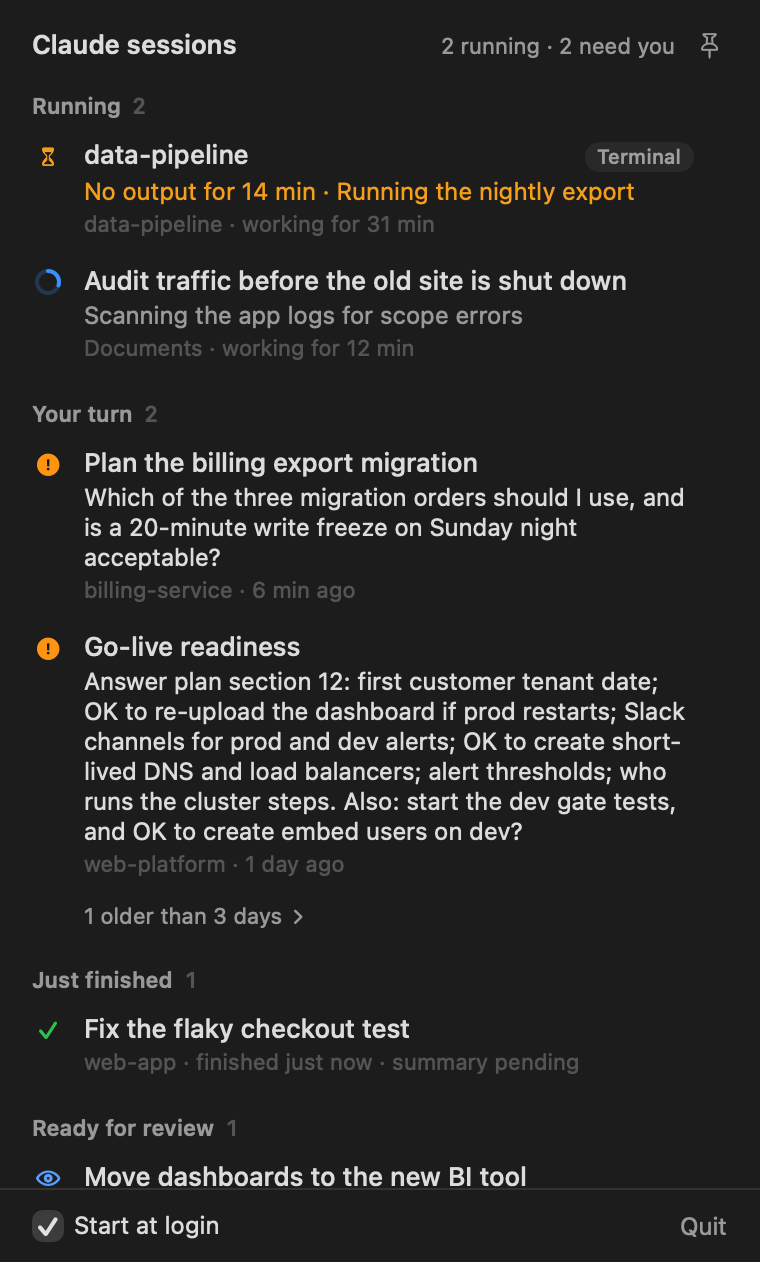
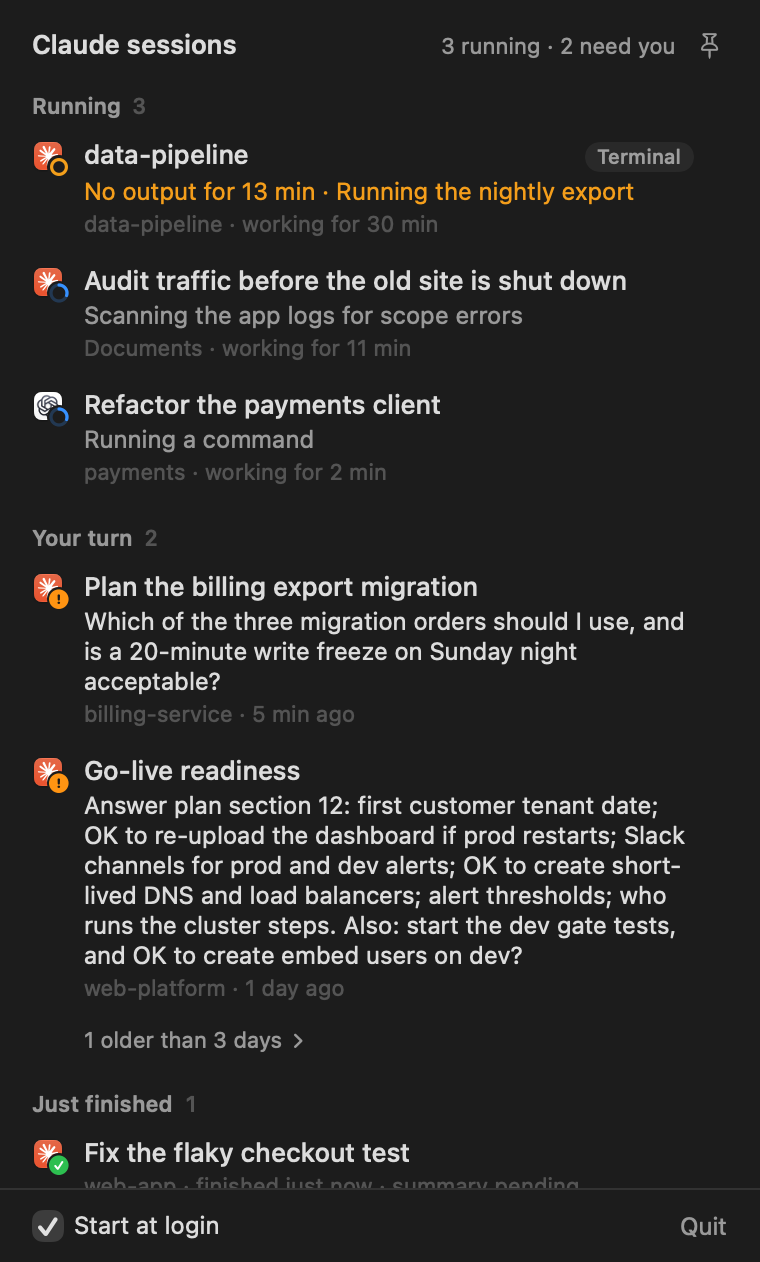
README: lead with the window and the strip, not the menu bar
Limbo is no longer a menu-bar board: the tagline and "What Limbo Tasks
does" now lead with the keep-on-top window and the one-line strip that
fits above or below a movie, across Claude, ChatGPT, Cursor, Antigravity
and Orca, with the menu bar last. The features and their sections run
window, layouts and glows first. The Go session watcher moves to the
end, since Limbo Tasks does not need it.

The screenshots are re-rendered from the current build (app icons with
the state on their corner, the darker glass), and a new one shows the
strip with a card open. The first, the strip, Aurora and light mode use
the made-up sessions from every app (--sample-apps).

diff --git a/README.md b/README.md
@@ -2,90 +2,30 @@
 
 <h1 align="center">Limbo</h1>
 
-<p align="center">macOS menu-bar board for Cursor, Claude, Grok, and Codex sessions.</p>
+<p align="center">Every AI agent session on your Mac, from Claude, ChatGPT, Cursor, Antigravity and Orca, grouped by what it needs from you: in a window that stays on top, a one-line strip that stays out of the way of what you're watching, or the menu bar.</p>
 
-A local Go watcher reads verified Mac signals and writes a JSON snapshot. The tray reads that file. No webhooks. No HTTP. No secrets in logs or files.
+<p align="center"><img src="docs/images/limbo-tasks/window.png" width="392" alt="The keep-on-top window: a Waiting on you card, then Running, Needs you and Finished sections, each row led by its app's icon (Claude, Cursor, ChatGPT, Antigravity)"></p>
 
-The watcher binary is still `session-watcher`.
-
-## Build
-
-```bash
-make build
-# → bin/session-watcher  (darwin/arm64)
-```
-
-Or:
-
-```bash
-GOOS=darwin GOARCH=arm64 go build -o bin/session-watcher ./cmd/session-watcher
-```
-
-## Test
-
-```bash
-make test
-# or: go test ./...
-```
-
-Tests inject fixture paths and process listings — they never hit a real home directory.
-
-## Run
-
-```bash
-# single snapshot
-./bin/session-watcher once
-
-# poll every 5s (default); override with -interval
-./bin/session-watcher watch
-./bin/session-watcher watch -interval 2s
-```
-
-### Outputs
-
-**1. Transition log** (`events.jsonl`) — one JSON line per `(tool,label)` state change, also printed to stdout:
-
-```json
-{"tool":"cursor","label":"Cursor","state":"idle","ts":"2026-09-16T10:00:00Z","source":"session-watcher"}
-```
-
-| Field | Values |
-|-------|--------|
-| `tool` | `cursor` \| `claude` \| `grok` \| `codex` |
-| `label` | Tool-specific (see signals docs) |
-| `state` | `running` \| `idle` \| `finished` |
-| `ts` | RFC3339 UTC |
-| `source` | `session-watcher` |
-
-**Log path:** `~/Library/Logs/session-watcher/events.jsonl`  
-Fallbacks: `$SESSION_WATCHER_LOG`, or `./events.jsonl` if `~/Library` is missing.
-
-**2. Tray snapshot** (`state.json`) — rewritten atomically on every `once` / watch tick with the **current live set only** (no finished rows):
-
-```json
-{"updated":"2026-09-16T10:00:00Z","sessions":[{"tool":"cursor","label":"Cursor","state":"idle","ts":"2026-09-16T10:00:00Z"}]}
-```
-
-**State path:** `~/Library/Application Support/session-watcher/state.json`  
-Fallbacks: `$SESSION_WATCHER_STATE`, or `./state.json` if `~/Library` is missing.
-
-The tray app should read `state.json` (not scrape processes itself).
-
-Dedup: emits only when `(tool, label)` state changes; disappeared → `finished` in the event log.
-
-## Limbo Tasks (Claude sessions, grouped by what they need from you)
+## Limbo Tasks
 
 ### The problem
 
-With several Claude Code sessions going at once, the Claude desktop app tells you that one has finished, or is waiting for your answer, with nothing more than a small grey dot next to its name in the sidebar. The dot is easy to miss in a long list, and it doesn't say whether the session needs you, finished, or only has new output. So you end up hopping from one session to the next just to see which ones have news, and the one that has been waiting for you sits unnoticed.
+With several Claude Code sessions going at once, the Claude desktop app tells you that one has finished, or is waiting for your answer, with nothing more than a small grey dot next to its name in the sidebar. The dot is easy to miss in a long list, and it doesn't say whether the session needs you, finished, or only has new output. So you end up hopping from one session to the next just to see which ones have news, and the one that has been waiting for you sits unnoticed. Add agents in ChatGPT, Cursor, Antigravity or Orca, each with its own list in its own window, and there are more places still to check.
 
 <p align="center"><img src="docs/images/limbo-tasks/claude-sidebar-dot.gif" width="370" alt="Claude's sidebar: small grey dots appear next to three sessions, the only sign that they have news"><br><sub>Claude's sidebar (example names): the grey dot is the only sign that a session has news.</sub></p>
 
 ### What Limbo Tasks does
 
-A small, separate menu bar app in [tasks/main.swift](tasks/main.swift) that shows every Claude Code session in the Claude desktop app by what it needs from you: what is running and what it is doing, what is waiting for your answer (with Claude's own buttons, so you can answer from it), what is ready for review and what just finished. A window that stays on top shows it at a glance, and its edge glows amber when a session needs you and green when everything has finished, so you can stay in one task and still notice the others. It does not need the Go watcher. All screenshots below use the app's built-in sample sessions (`--sample`).
+A small Mac app, in [tasks/main.swift](tasks/main.swift), that shows your agent sessions from Claude's desktop app, ChatGPT, Cursor, Antigravity and Orca by what they need from you: what is running and what it is doing, what is waiting for your answer (with Claude's own buttons, so you can answer from it), what is ready for review and what just finished.
 
-<p align="center"><img src="docs/images/limbo-tasks/window.png" width="392" alt="The keep-on-top window: Waiting on you cards, then Running, Ready for review, Finished and On hold sections"></p>
+- **A window that stays on top** of everything, full-screen apps included, and never takes the keyboard (above).
+- **A one-line strip** (or a thin bar, or dots) that fits in the black bar above or below a movie, so it never covers what you're watching. It can take over by itself whenever an app goes full screen.
+- **Glows** on the window's edge: amber when a session needs you, green when everything has finished, so you can stay in one task and still notice the others.
+- **The menu bar** shows the counts, with a panel listing every session from the last week.
+
+<p align="center"><img src="docs/images/limbo-tasks/strip.png" width="820" alt="The strip: one chip per session, led by its app's icon, with the card of the chip the pointer is on underneath"></p>
+
+It does not need the Go watcher below. The screenshots use the app's built-in made-up sessions (`--sample`; the first, the strip, Aurora and light mode add the other apps' with `--sample-apps`).
 
 ```bash
 make install-tasks     # build, install ~/Applications/Limbo Tasks.app, start at login, start now
@@ -99,35 +39,23 @@ A stable signing identity keeps macOS's Accessibility permission (used by Answer
 
 | | |
 |---|---|
-| **Menu bar** | The Claude mark with the number of sessions running and a speech bubble with the number waiting for you. |
-| **Menu bar panel** | Every session from the last 7 days in groups: Running, Your turn, Just finished, Ready for review, Snoozed, On hold, Done, In a terminal. |
 | **Keep-on-top window** | A small window above everything, full-screen apps included, that never takes the keyboard. |
+| **Layouts** | List, Strip, Bar, Dots, Columns or Pill; the strip fits above or below a movie, and can take over while an app is full screen. |
+| **Glows** | A calm rim while sessions run, amber when one needs you, green when everything finishes. |
 | **Waiting on you cards** | A session's question and the buttons from Claude's next-step box, with its latest reply one click away. |
 | **Answer from Cards** | Click a card's button and Limbo presses it in Claude for you, then puts your screens back. |
-| **Tags** | On hold, Awaiting manual review, or your own; four tag styles. |
 | **ChatGPT threads** | Codex threads in the ChatGPT app, running or just finished, beside Claude's sessions. |
 | **Cursor threads** | Cursor's agent threads, running, waiting on you, or finished, beside Claude's sessions. |
 | **Antigravity conversations** | Antigravity's agent conversations, running or finished, beside Claude's sessions. |
 | **Orca threads** | The agent threads open in Orca (Claude, Codex, Antigravity…), running or finished, beside Claude's sessions. |
+| **Tags** | On hold, Awaiting manual review, or your own; four tag styles. |
 | **Snooze** | Put a session away for an hour, three hours or until tomorrow morning; it comes back by itself. |
-| **Glows** | A calm rim while sessions run, amber when one needs you, green when everything finishes. |
-| **Layouts** | List, Strip, Bar, Dots, Columns or Pill; the strip can take over while an app is full screen. |
-
-#### Menu bar
-
-<img src="docs/images/limbo-tasks/menubar.png" width="91" alt="Menu bar item: 2 running, 2 waiting">
-
-The Claude mark with the number of sessions running, then a speech bubble with the number waiting for you (last 3 days); a check mark when neither. While sessions run, the mark turns once every 3 s (it holds still with Reduce Motion on and stops while the screens sleep). The mark is taken at run time from the installed Claude app's own menu bar icon, so nothing of Claude's is copied into this repo. Click it for the panel.
-
-#### Menu bar panel
-
-<img src="docs/images/limbo-tasks/panel.png" width="380" alt="The menu bar panel: Running, Your turn and Just finished groups">
-
-Every session from the last 7 days, grouped by what it needs from you (the rules are under [Session states](#session-states)). Each row shows the session, what it is doing or asking, its folder (or the session that started it) and how long ago. Click a row to open it in Claude; the pin button opens the keep-on-top window. Done, In a terminal, On hold and questions older than 3 days fold away; Start at login and Quit are at the bottom.
+| **Menu bar** | The Claude mark with the number of sessions running and a speech bubble with the number waiting for you. |
+| **Menu bar panel** | Every session from the last 7 days in groups: Running, Your turn, Just finished, Ready for review, Snoozed, On hold, Done, In a terminal. |
 
 #### Keep-on-top window
 
-The pin in the panel opens a small window with the running sessions, the ones waiting for you or ready for review, and ones finished in the last 2 hours. It stays above other windows, full-screen videos and games included, on every Space, and never takes keyboard focus, so it never interrupts what you type.
+A small window with the running sessions, the ones waiting for you or ready for review, and ones finished in the last 2 hours; the pin in the menu bar panel opens it. It stays above other windows, full-screen videos and games included, on every Space, and never takes keyboard focus, so it never interrupts what you type.
 
 - **Sections:** small capital headings with a count and a hairline: Waiting on you, Running, Needs you, Ready for review, Finished, Snoozed, On hold.
 - **Look:** the system's glass background, like other macOS windows and alerts, darkened in Dark Mode the way Control Center's panels are (the blurred material before macOS 26), Apple's rounded system font, 16-point corners, a light blue backing behind running sessions, stronger titles for sessions still going, one line per finished session.
@@ -136,10 +64,23 @@ The pin in the panel opens a small window with the running sessions, the ones wa
 - **Questions and summaries** show in full, wrapping onto more lines; a running status stays on one line so the row doesn't jump.
 - **Count chips filter the list:** click "1 needs you" to list only those sessions, click again for everything.
 
-<p><img src="docs/images/limbo-tasks/filter.png" width="332" alt="The window filtered to sessions that need you, with Showing 1 of 7 and Show all"></p>
+<p><img src="docs/images/limbo-tasks/filter.png" width="332" alt="The window filtered to sessions that need you, with Showing 1 of 9 and Show all"></p>
 
 - **Time range:** the "24 hr" menu sets how far back it shows sessions waiting for you (1 hour, 4 hours, 24 hours, 3 days, 7 days). Running sessions always show.
 - **Size and place:** drag it by its header; resize it from any edge or corner (the resize cursor shows near the border). The position and size are remembered. Right-click the header for Fit to Content and Default Size.
+
+#### Layouts
+
+The layout button in the window's header (and the right-click menu of the layouts without a header) picks the window's shape. The horizontal ones fit in the black bar above or below a widescreen movie, so they never cover what you're watching:
+
+- **List** (default): the window at the top of this page.
+- **Strip** (shown above): one line of chips, one per session (running, waiting, then ready for review, at most six), with how long ago, and finished ones as a count. Point at a chip for its card (its question and buttons, or its row) underneath, or above it in the lower half of the screen; click to open it.
+- **Bar:** a thin bar across the whole bottom of the screen, with what running sessions are doing and the first tag of the others. Cards open above it.
+- **Dots:** the smallest: one mark per session, in groups. Point at one for its card.
+- **Columns:** wide and short, with Running, Needs you and Finished side by side; drag its sides to resize it.
+- **Pill:** just the counts.
+
+Double-click the Limbo mark (or the bar's empty part) to go back to the list. **Strip while an app is full screen**, in the same menu, swaps the list or the columns for the strip whenever an app is full screen on the window's display, and puts your layout back when it leaves full screen; pick a layout while full screen and it stays until then. The app is taken to be full screen when its display shows a full-screen Space (or a window covers the whole display, as a game's does), so it works for videos in a browser or a player alike.
 
 #### Waiting on you cards and replies
 
@@ -239,18 +180,17 @@ The window's edge tells you the state from the corner of your eye. The sparkle m
 - **Other effects:** Aurora drift, Ember breath, Corner bloom, Tide sweep, Rising warmth, Heartbeat, Random (a new one every 5 seconds) or No glow, in red, orange, rose or green. A new choice plays for 4 seconds so you can see it. The amber and green signals each have an on/off switch in the same menu.
 - **Pill:** double-click the header's empty middle (or right-click it, Shrink to Pill) to shrink the window to just its counts and glow; double-click the pill to expand it.
 
-#### Layouts
+#### Menu bar
 
-The layout button in the window's header (and the right-click menu of the layouts without a header) picks the window's shape. The horizontal ones fit in the black bar above or below a widescreen movie, so they never cover what you're watching:
+<img src="docs/images/limbo-tasks/menubar.png" width="91" alt="Menu bar item: 2 running, 2 waiting">
 
-- **List** (default): the window above.
-- **Strip:** one line of chips, one per session (running, waiting, then ready for review, at most six), with how long ago, and finished ones as a count. Point at a chip for its card (its question and buttons, or its row) underneath, or above it in the lower half of the screen; click to open it.
-- **Bar:** a thin bar across the whole bottom of the screen, with what running sessions are doing and the first tag of the others. Cards open above it.
-- **Dots:** the smallest: one mark per session, in groups. Point at one for its card.
-- **Columns:** wide and short, with Running, Needs you and Finished side by side; drag its sides to resize it.
-- **Pill:** just the counts.
+The Claude mark with the number of sessions running, then a speech bubble with the number waiting for you (last 3 days); a check mark when neither. While sessions run, the mark turns once every 3 s (it holds still with Reduce Motion on and stops while the screens sleep). The mark is taken at run time from the installed Claude app's own menu bar icon, so nothing of Claude's is copied into this repo. Click it for the panel.
 
-Double-click the Limbo mark (or the bar's empty part) to go back to the list. **Strip while an app is full screen**, in the same menu, swaps the list or the columns for the strip whenever an app is full screen on the window's display, and puts your layout back when it leaves full screen; pick a layout while full screen and it stays until then. The app is taken to be full screen when its display shows a full-screen Space (or a window covers the whole display, as a game's does), so it works for videos in a browser or a player alike.
+#### Menu bar panel
+
+<img src="docs/images/limbo-tasks/panel.png" width="380" alt="The menu bar panel: Running, Your turn and Just finished groups">
+
+Every session from the last 7 days, grouped by what it needs from you (the rules are under [Session states](#session-states)). Each row shows the session, what it is doing or asking, its folder (or the session that started it) and how long ago. Click a row to open it in its app (Claude, ChatGPT, or a switch to Cursor, Antigravity or Orca); the pin button opens the keep-on-top window. Done, In a terminal, On hold and questions older than 3 days fold away; Start at login and Quit are at the bottom.
 
 #### Light mode and accessibility
 
@@ -339,16 +279,87 @@ kill -USR1 $(pgrep -x limbo-tasks)                  # counts only -> ~/Library/C
                                                     # and the glow's state (effect, active, animating, size) -> ...limbo-tasks.glow.json
 ```
 
-The screenshots in this README are made with `--snapshot … --sample`; `-tagStyle` and `-runningGlow` set those settings for one run.
+The screenshots in this README are made with `--snapshot … --sample` (the first, the strip, Aurora and light mode add `--sample-apps`, with `--live`); `-tagStyle` and `-runningGlow` set those settings for one run.
 
-## Signals
+## Session watcher (Go)
+
+An older, separate part of this repo, which Limbo Tasks does not need. A local Go watcher reads verified Mac signals and writes a JSON snapshot. The tray reads that file. No webhooks. No HTTP. No secrets in logs or files.
+
+The watcher binary is still `session-watcher`.
+
+### Build
+
+```bash
+make build
+# → bin/session-watcher  (darwin/arm64)
+```
+
+Or:
+
+```bash
+GOOS=darwin GOARCH=arm64 go build -o bin/session-watcher ./cmd/session-watcher
+```
+
+### Test
+
+```bash
+make test
+# or: go test ./...
+```
+
+Tests inject fixture paths and process listings — they never hit a real home directory.
+
+### Run
+
+```bash
+# single snapshot
+./bin/session-watcher once
+
+# poll every 5s (default); override with -interval
+./bin/session-watcher watch
+./bin/session-watcher watch -interval 2s
+```
+
+#### Outputs
+
+**1. Transition log** (`events.jsonl`) — one JSON line per `(tool,label)` state change, also printed to stdout:
+
+```json
+{"tool":"cursor","label":"Cursor","state":"idle","ts":"2026-09-16T10:00:00Z","source":"session-watcher"}
+```
+
+| Field | Values |
+|-------|--------|
+| `tool` | `cursor` \| `claude` \| `grok` \| `codex` |
+| `label` | Tool-specific (see signals docs) |
+| `state` | `running` \| `idle` \| `finished` |
+| `ts` | RFC3339 UTC |
+| `source` | `session-watcher` |
+
+**Log path:** `~/Library/Logs/session-watcher/events.jsonl`  
+Fallbacks: `$SESSION_WATCHER_LOG`, or `./events.jsonl` if `~/Library` is missing.
+
+**2. Tray snapshot** (`state.json`) — rewritten atomically on every `once` / watch tick with the **current live set only** (no finished rows):
+
+```json
+{"updated":"2026-09-16T10:00:00Z","sessions":[{"tool":"cursor","label":"Cursor","state":"idle","ts":"2026-09-16T10:00:00Z"}]}
+```
+
+**State path:** `~/Library/Application Support/session-watcher/state.json`  
+Fallbacks: `$SESSION_WATCHER_STATE`, or `./state.json` if `~/Library` is missing.
+
+The tray app should read `state.json` (not scrape processes itself).
+
+Dedup: emits only when `(tool, label)` state changes; disappeared → `finished` in the event log.
+
+### Signals
 
 See [docs/signals.md](docs/signals.md) and [VERIFIED_SIGNALS.md](VERIFIED_SIGNALS.md).
 
-## LaunchAgent (optional)
+### LaunchAgent (optional)
 
 Example plist: [deploy/com.maheshauti.session-watcher.plist](deploy/com.maheshauti.session-watcher.plist) (commented; install manually on the Mac).
 
-## Module
+### Module
 
 `github.com/maheshauti/session-watcher`
